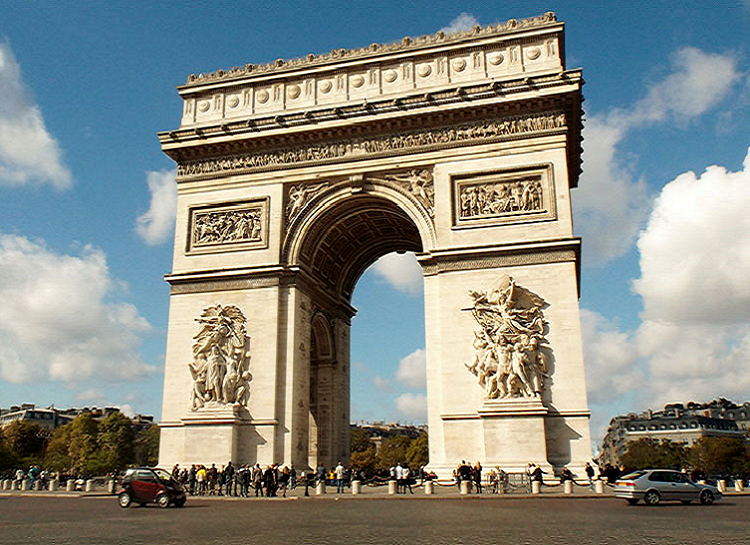
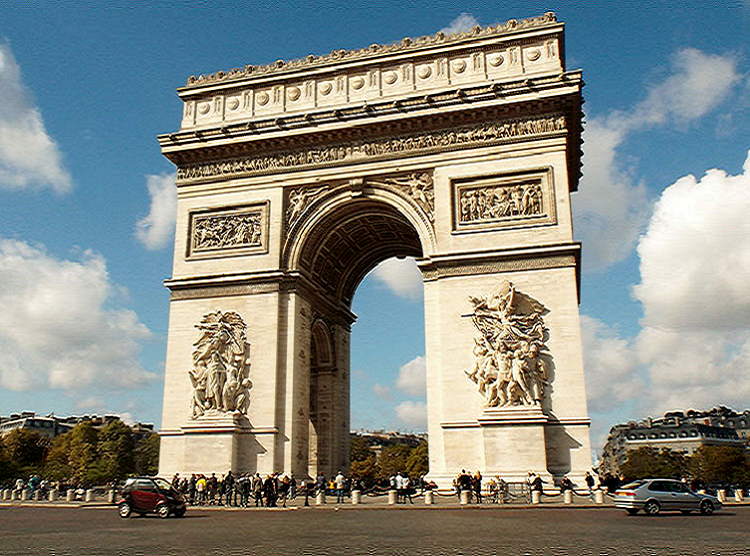
Finish

diff --git a/index.html b/index.html
@@ -34,10 +34,10 @@
       <div class="BaseText" id="PhoneScanText">So now you don’t have to. Just scan what you want to learn more about and our app scours the internet so you don’t have to.</div>
     </div>
 
-    <img class="Images" id="BasilScanned" src="./Images/BasilRedone.jpg"></img>
-    <img class="Images" id="ArcDeTrimpheScanned" src="./Images/Capture7.jpeg"></img>
+    <img class="Images" id="BasilScanned" src="./Images/ScannedBasil.JPG"></img>
+    <img class="Images" id="ArcDeTrimpheScanned" src="./Images/ArcDeScanned.png"></img>
     
-    <div class="BaseText" id="BaselineInspiration">We all have access to so much valuable information, so why not use it effectively? Scan and understand the rich history that surrounds us.</div>
+    <div class="BaselineInspiration" id="BaselineInspiration">We all have access to so much valuable information, so why not use it effectively? Scan and understand the rich history that surrounds us.</div>
     
     <img class="Images" id="BloodLeaf" src="./Images/Vy3F8vU9Q0IuwXnvkVn2JCMD1AP4xiOQ9HygGJxs.jpeg"></img>
     <img class="Images" id="BlueDragon" src="./Images/blue-dragon..jpeg"></img>

diff --git a/style.css b/style.css
@@ -28,7 +28,7 @@ variables are available to be used anywhere in our html document
     font-size: 100px;
 }
 .BaseText {
-    font-size: 20px;
+    font-size: 27px;
 }
 .Images {
     object-fit: cover;
@@ -40,6 +40,13 @@ variables are available to be used anywhere in our html document
     display: flex;
     flex-direction: column;
     
+}
+.Introduction {
+    font-size: 30px;
+}
+.DiscoverScanLearn {
+    text-align: center;
+    font-size: 35px;
 }
 #TitleText {
     grid-area: TT1;
@@ -55,6 +62,9 @@ variables are available to be used anywhere in our html document
 
 #AppIntroductionText {
     grid-area: AT1;
+    text-align: center;
+    margin-left: 8Rem;
+    margin-right: 8Rem;
 }
 
 #InternetData {
@@ -75,6 +85,9 @@ variables are available to be used anywhere in our html document
 
 #BaselineInspiration {
     grid-area: BN1;
+    font-size: 27px;
+    margin-left: 8Rem;
+    margin-right: 8Rem;
 }
 
 #BloodLeaf {
